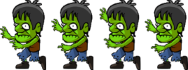
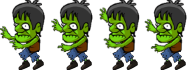
add zombie moving and animations

diff --git a/main.js b/main.js
@@ -42,17 +42,22 @@ let zombieImage = new Image();
 zombieImage.src = './media/img/monsters/zombie.png';
 let zombieAttackImage = new Image();
 zombieAttackImage.src = './media/img/monsters/zombieAttack.png';
-let zombieWidth = 50;
-let zombies = []; //все зомби [{x, y, health}]
+let zombieWidth = 49;
+let zombieAttackWidth = 48;
+let zombies = []; //все зомби [{x, y, health, isAttack, currentFrame, createdTime}]
 let zombieHealthMax = 3;
-let zombieDamage = 1; //урон
-let zombieSpeed = 10; //скорость
+let zombieDamage = 1; //урон (в секунду)
+let zombieSpeed = 50; //скорость (пикселей в секунду)
 let zombieKey = 'zombie';
+let zombiesWasCreated = 0;
+let zombiesWasCreatedLastTime = 0;
+let zombiesFrames = 12;
+let zombiesAttackFrames = 4;
 
 let waveCurrent = 0; //текущая волна нападения (-1 = нет волны)
 let waveStartTime = Date.now();
 let waveMonsters = [{ //монстры на волнах
-	zombieKey: {
+	[zombieKey]: {
 		count: 500,
 		frequencyCreating: 60 //начальное количество в минуту
 	}
@@ -117,10 +122,32 @@ function drawFlyEarchRope(){
 /** прорисовка анимированных зомби */
 function drawZombies(){
 	for(let i = 0; i < zombies.length; i++){
-		//передвижение
-		ctx.drawImage(zombieImage, zombies[i].x, zombies[i].y);
-
-		//атака
+		if(zombies[i].isAttack){
+			//атака
+			zombies[i].currentFrame = Math.floor(((Date.now() - zombies[i].createdTime) % 1000) / (1000 / zombiesAttackFrames)) % zombiesAttackFrames;
+			ctx.drawImage(zombieAttackImage, 
+				zombieAttackWidth * zombies[i].currentFrame, //crop from x
+				0, //crop from y
+				zombieAttackWidth,
+				zombieAttackImage.height,
+				zombies[i].x, 
+				zombies[i].y,
+				zombieAttackWidth,
+				zombieAttackImage.height);
+		}
+		else{
+			//передвижение
+			zombies[i].currentFrame = Math.floor(((Date.now() - zombies[i].createdTime) % 1000) / (1000 / zombiesFrames)) % zombiesFrames;
+			ctx.drawImage(zombieImage, 
+				zombieWidth * zombies[i].currentFrame, //crop from x
+				0, //crop from y
+				zombieWidth,
+				zombieImage.height,
+				zombies[i].x, 
+				zombies[i].y,
+				zombieWidth,
+				zombieImage.height);
+		}
 	}
 }
 
@@ -210,20 +237,43 @@ function labelsLogic(){
 	}
 }
 
-function zombieLogic(){
+function zombieLogic(millisecondsDifferent){
 	//логика создания
-	if(Math.random()) //Math.random(0, probabilityСreate - countCreate) > 20 ? probabilityСreate - countCreate : 20) == 0
+	var waveData = waveMonsters[waveCurrent][zombieKey];
+	var periodTime = 1000 * 60 / waveData.frequencyCreating;
+	if(waveData.count > zombiesWasCreated && Date.now() > zombiesWasCreatedLastTime + periodTime + getRandom(-periodTime / 2, periodTime / 2)) 
 	{ 
-		let isLeftSide = Math.random() < 0.5;
-		createZombie(isLeftSide ? -zombieWidth : widthOfCanvas, heightOfCanvas - bottomShiftBorder - zombieImage.height);
+		//let isLeftSide = Math.random() < 0.5;
+		//createZombie(isLeftSide ? -zombieWidth : widthOfCanvas, heightOfCanvas - bottomShiftBorder - zombieImage.height);
 	}
 
 	//логика передвижения
 	zombies.map(zombie => {
-		
-	});
+		var placeGoal = widthOfCanvas / 2;
 
-	//логика атаки
+		zombie.isAttack = false;
+		if(zombie.x < widthOfCanvas / 2) //если монстр идёт с левой стороны
+		{
+			if (zombie.x + zombieWidth < placeGoal + zombieWidth / 5) //ещё не дошёл
+				zombie.x += zombieSpeed * (millisecondsDifferent / 1000);
+			else //дошёл
+				zombie.isAttack = true; //атакует
+		}
+		else 
+		{
+			if (zombie.x > placeGoal - zombieWidth / 5) //ещё не дошёл
+				zombie.x -= zombieSpeed * (millisecondsDifferent / 1000);
+			else //дошёл
+				zombie.isAttack = true; //атакует
+		}
+
+		if(zombie.isAttack) //если атакует
+		{
+			var damage = 0 - zombieDamage * (millisecondsDifferent / 1000);
+			if(damage < 0)
+				reopHealth += damage; //наносим урон
+		}
+	});
 }
 
 
@@ -277,8 +327,12 @@ function createZombie(x, y){
 	zombies.push({
 		x: x,
 		y: y,
-		health: zombieHealthMax
+		health: zombieHealthMax,
+		isAttack: false,
+		createdTime: Date.now()
 	});
+	zombiesWasCreated++;
+	zombiesWasCreatedLastTime = Date.now();
 }
 
 
@@ -297,7 +351,6 @@ function draw(millisecondsFromStart){
 		return;
 	}
 
-	let secondsFromStart = millisecondsFromStart % 1000;
 	let millisecondsDifferent = millisecondsFromStart - lastDrawTime; //сколько времени прошло с прошлой прорисовки
 
 
@@ -310,7 +363,7 @@ function draw(millisecondsFromStart){
 	labelsLogic();
 
 	if(waveCurrent == 0){
-		zombieLogic();
+		zombieLogic(millisecondsDifferent);
 	}
 
 	checkFPS();
@@ -328,15 +381,15 @@ function draw(millisecondsFromStart){
 
 	drawFlyEarchRope();
 
-	drawFlyEarch(Math.floor(secondsFromStart / (1000 / flyEarchFrames / 2)) % flyEarchFrames); //летающая земля (2 полных цикла анимации за 1 секунду)
+	drawFlyEarch(Math.floor((millisecondsFromStart % 1000) / (500 / flyEarchFrames)) % flyEarchFrames); //летающая земля 
 
 	drawCoins();
-
-	drawGrass(); 
 
 	if(waveCurrent == 0){
 		drawZombies(); 
 	}
+
+	drawGrass(); 
 
 	drawLabels();
 
